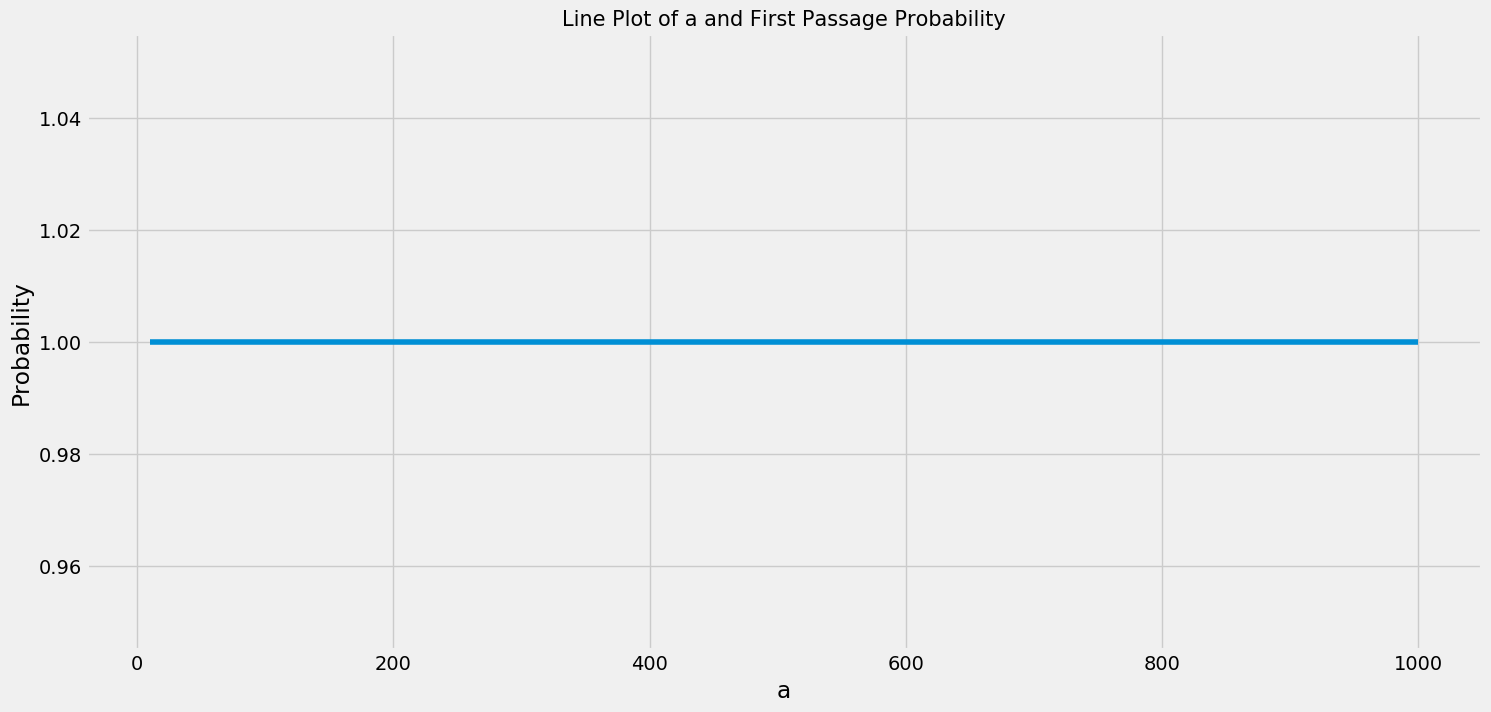
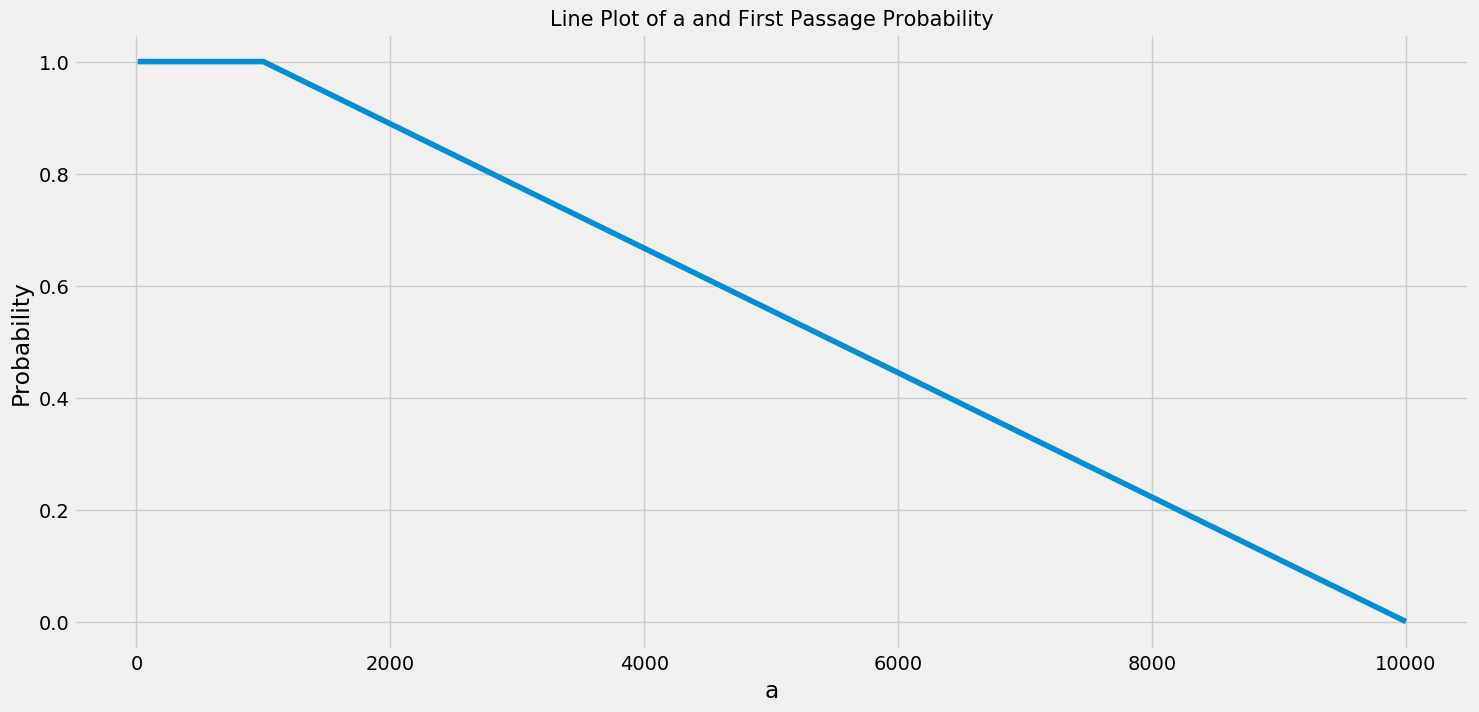
update

diff --git a/setup.py b/setup.py
@@ -7,6 +7,7 @@ import func_dist as fd
 import visualize as vi
 from functools import partial
 import numpy as np
+import time
 # import scipy.stats as stats
 
 
@@ -55,8 +56,12 @@ def cal_fpp(mu, sigma, lamb, func_dist_y, n_sample, n_sim, a):
     :param a:
     :return:
     """
+    time_start = time.time()
+    # your code
     _, _, list_m_result = sim_multi(mu, sigma, lamb, func_dist_y, n_sample, n_sim)
     prob = sum([i > a for i in list_m_result]) / len(list_m_result)
+    time_elapse = time.time() - time_start
+    print("Time elapsed = {} ;".format(time_elapse))
     return prob
 
 
@@ -82,10 +87,12 @@ def task2():
     n_sample = 1000
     n_sim = 1000
     func_dist_y = select_dist(beta)
-    list_a = [10, 100, 1000]
-    # list_a = list(range(100, 2000, 50))
-    list_prob = [0] * len(list_a)
-    for i in range(len(list_a)):
+    # list_a = [10, 100, 1000, 10000, 100000, 1000000]
+    list_a = list(range(500, 10000, 100))
+    n_a = len(list_a)
+    list_prob = [0] * n_a
+    print("n_a = {}".format(n_a))
+    for i in range(n_a):
         list_prob[i] = cal_fpp(mu, sigma, lamb, func_dist_y, n_sample, n_sim, list_a[i])
     vi.line_fpp(list_a, list_prob, '6')
 
